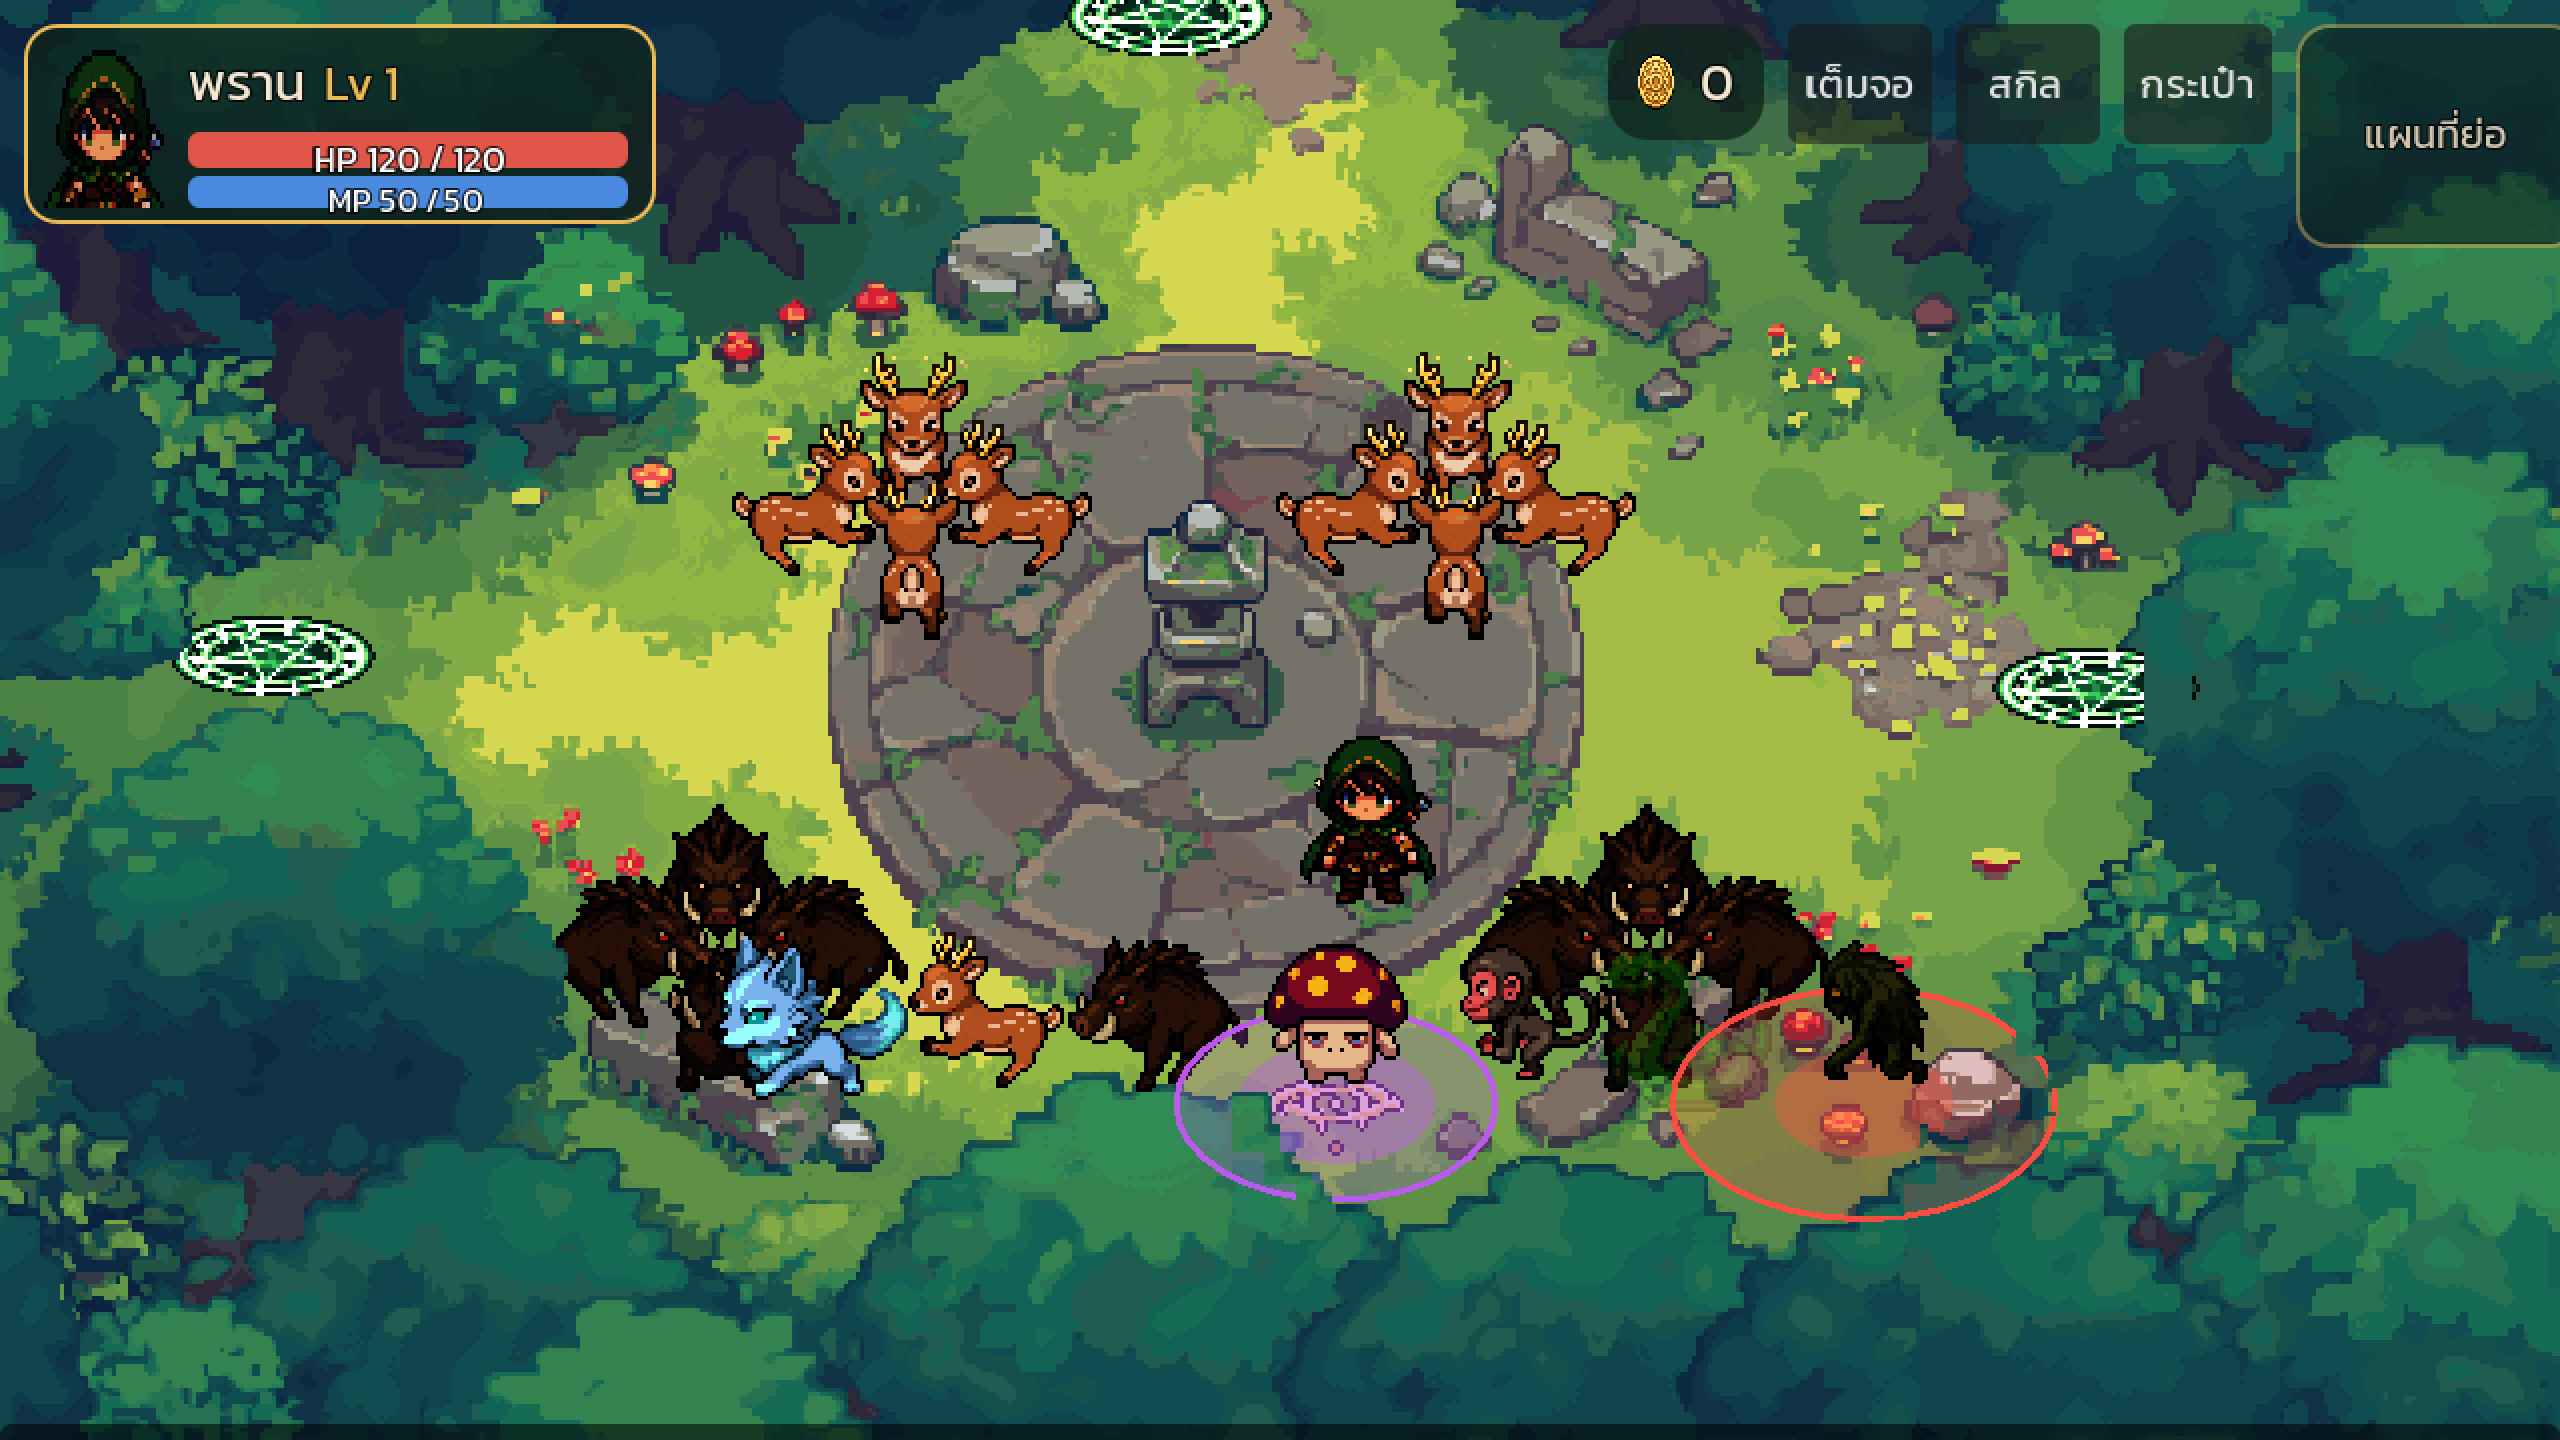
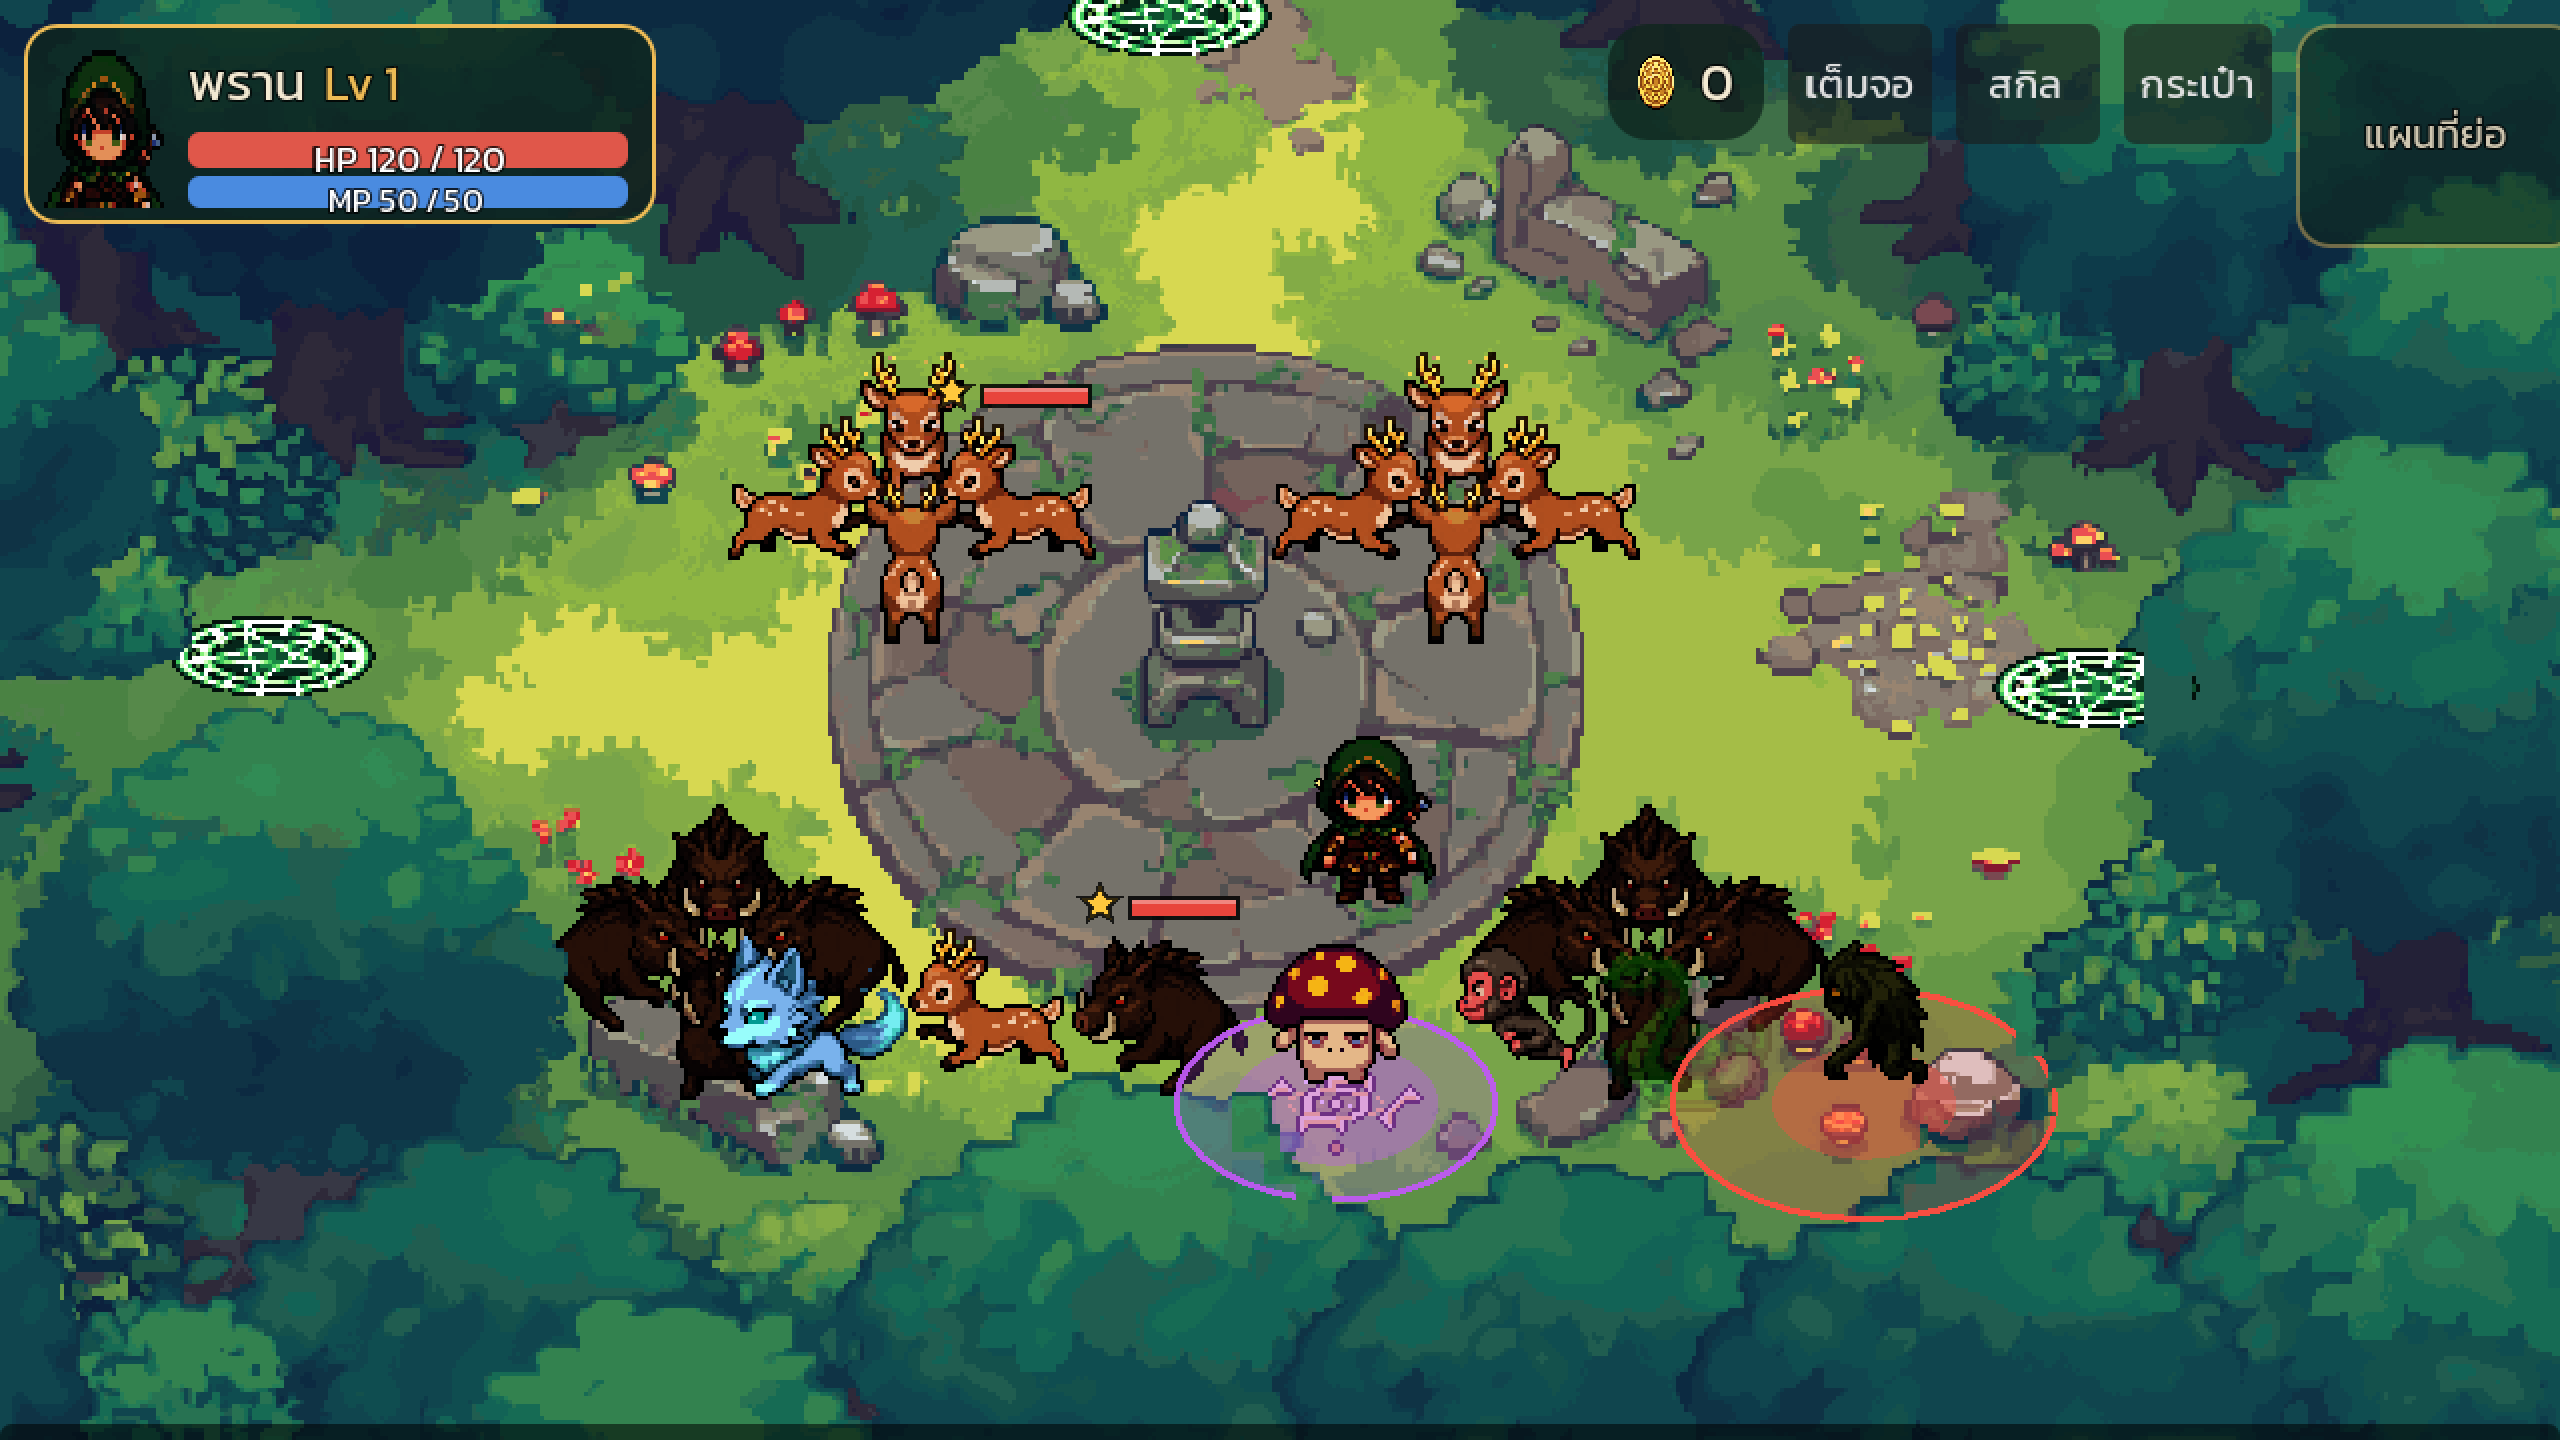
M3h elite monsters (owner's choice): 10% per spawn, HP x4 ATK x1.5 EXP x5 gold x3 drops x3, gear one rarity up, no knockback, gold star + HP bar over the head
Claude-Session: https://claude.ai/code/session_01Y3xh1UrjSLruRTRK75Y2Tg

diff --git a/docs/superpowers/specs/2026-11-07-m3h-elite-monsters-design.md b/docs/superpowers/specs/2026-11-07-m3h-elite-monsters-design.md
@@ -1,0 +1,28 @@
+# M3h มอน Elite
+
+สถานะ: **เจ้าของเลือกตัวเลขเองในคำถามแล้ว 2026-11-07**
+คำขอเจ้าของ: "มอนเพิ่มระดับ elite ให้ตายยากขึ้นและ exp สูงขึ้น และอยากให้มีการบ่งบอกระดับให้ชัดเจน"
+งบ PixelLab: 0 gen
+
+## 1. ตัวเลข (data/balance.json → "elite") ใช้ต่อจากค่า horde ของ M3g
+| ค่า | Elite เทียบกับมอนธรรมดาเลเวลเดียวกัน |
+|---|---|
+| โอกาสเกิด | **10%** ทุกครั้งที่มอนเกิดหรือเกิดใหม่ ทุกชนิด ทุกห้อง |
+| HP | **× 4** |
+| ATK | **× 1.5** |
+| DEF | เท่าเดิม |
+| EXP | **× 5** |
+| ทอง | **× 3** |
+| โอกาสดรอปของ (แร่ เจม อุปกรณ์) | **× 3** (ไม่เกิน 100%) |
+| เกรดอุปกรณ์ที่ดรอป | **สูงขึ้น 1 ขั้น** จากที่สุ่มได้ (ธรรมดา→ดี … มหากาพย์→ตำนาน, ตำนานคงเดิม) |
+| ถูกยิงแล้วกระเด็น | **ไม่กระเด็น** |
+
+นิสัยไม่เปลี่ยน: Elite ของมอนที่ไม่ตีก่อน ก็ยังไม่ตีก่อน
+
+## 2. หน้าตา (เจ้าของเลือก: ป้าย ★ + หลอดเลือดบนหัว)
+- เหนือหัวมีดาวสีทองตามด้วยหลอด HP สั้น ๆ มีเฉพาะ Elite มอนธรรมดาไม่มี
+- หลอดเลือดลดตามดาเมจ และหายไปตอนมอนตาย
+
+## 3. ต้องตรวจ
+- เทสต์ค่าคูณทุกค่า โอกาสเกิดประมาณ 10% ไม่กระเด็น เกรดดรอปสูงขึ้น 1 ขั้น และป้ายมีเฉพาะ Elite
+- ภาพหน้าจอ Elite ในเกม
